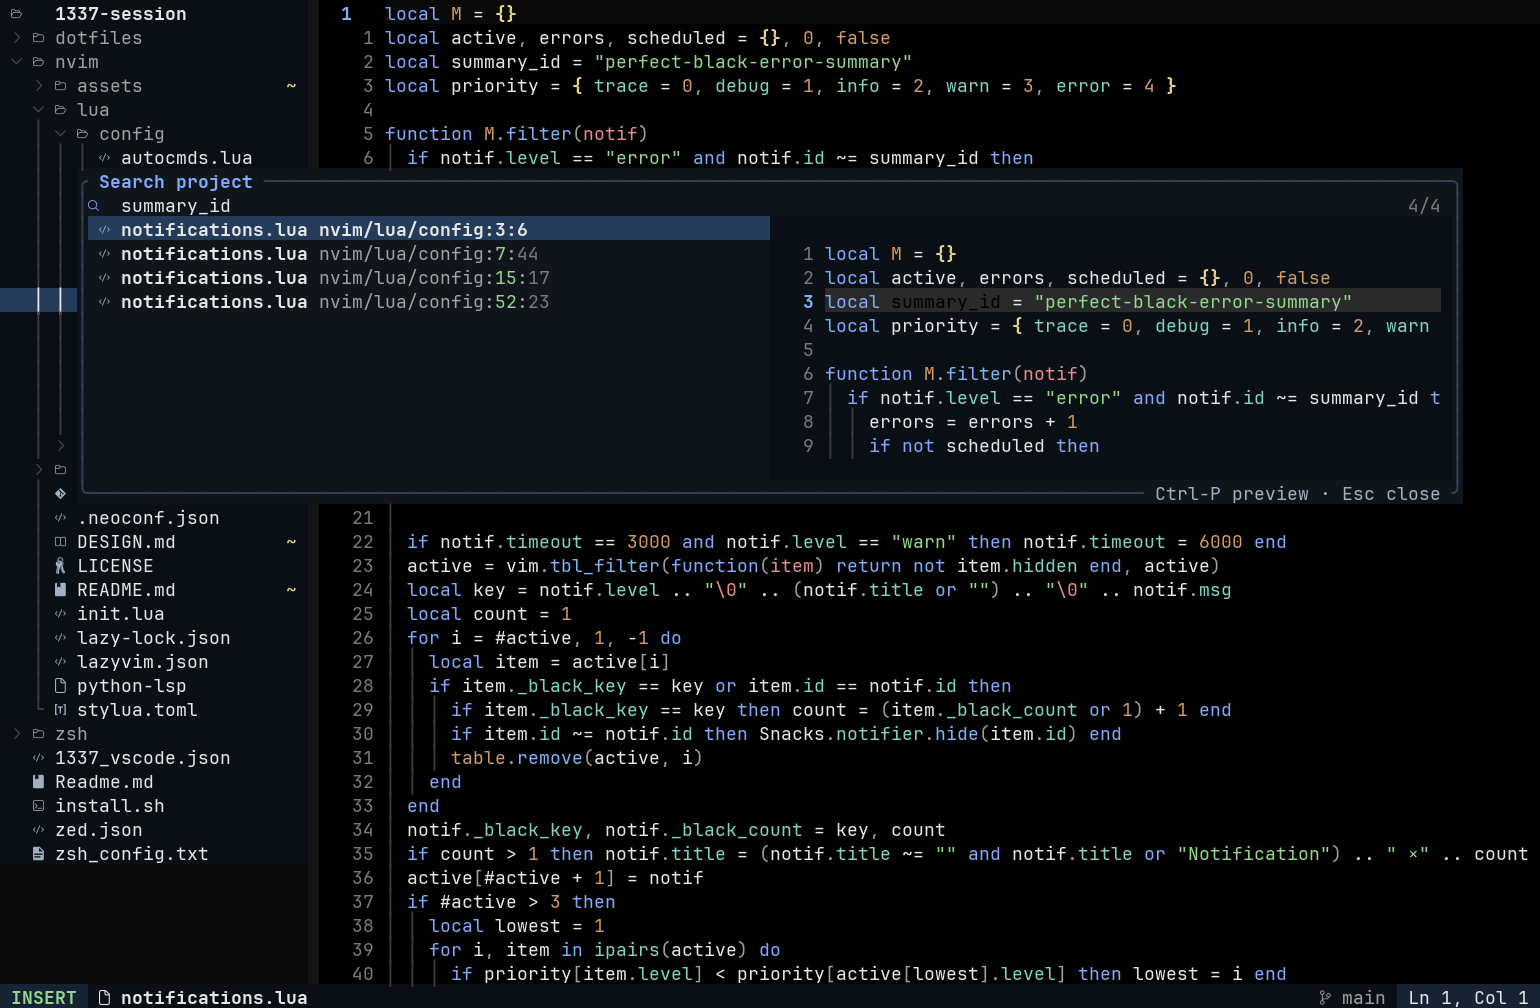
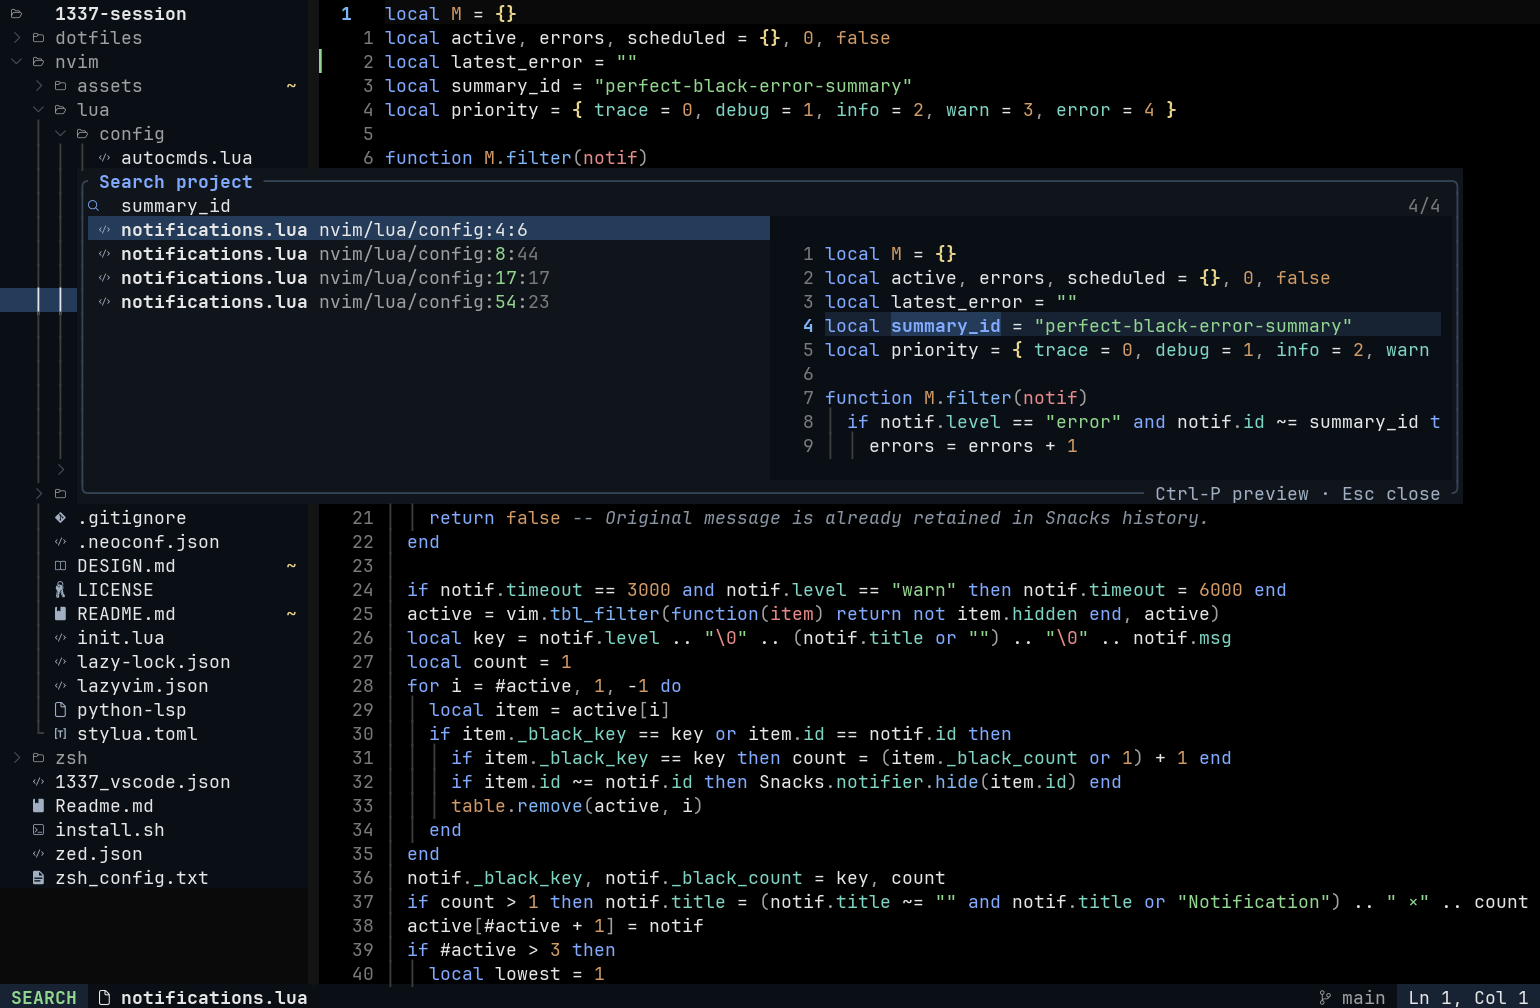
Improve Python responsiveness, documentation shortcuts and panel clarity

diff --git a/nvim/tests/ui_review.py b/nvim/tests/ui_review.py
@@ -75,11 +75,12 @@ def call(method,params):
 call('nvim_ui_attach',[100,30,{'rgb':True,'ext_linegrid':True}]);pump(1)
 call('nvim_command',['enew'])
 call('nvim_buf_set_lines',[0,0,-1,False,['test diagnostics','second line']])
-call('nvim_exec_lua',["require('config.diagnostic_signs').setup(); vim.diagnostic.config({signs=true,virtual_text=false,update_in_insert=true}); _G.review_a=vim.api.nvim_create_namespace('review_a'); _G.review_b=vim.api.nvim_create_namespace('review_b'); vim.diagnostic.set(review_a,0,{{lnum=0,col=0,message='warning',severity=2}}); vim.diagnostic.set(review_b,0,{{lnum=0,col=0,message='error',severity=1}})",[]]);pump(.2)
+call('nvim_exec_lua',["require('config.diagnostic_signs').setup(); vim.diagnostic.config({signs=true,virtual_text=false,update_in_insert=true}); _G.review_a=vim.api.nvim_create_namespace('review_a'); _G.review_b=vim.api.nvim_create_namespace('review_b'); vim.diagnostic.config({signs={priority=99,text={[1]='X'}}},review_b); vim.diagnostic.set(review_a,0,{{lnum=0,col=0,message='warning',severity=2}}); vim.diagnostic.set(review_b,0,{{lnum=0,col=0,message='error',severity=1}})",[]]);pump(.2)
 def signs():
  return call('nvim_exec_lua',["local ns=vim.api.nvim_get_namespaces().perfect_black_diagnostic_signs; local sign_ns=vim.diagnostic.get_namespace(ns).user_data.sign_ns; return sign_ns and vim.api.nvim_buf_get_extmarks(0,sign_ns,0,-1,{details=true}) or {}",[]])
 marks=signs();assert len(marks)==1,marks
 assert 'Error' in marks[0][3].get('sign_hl_group',''),marks
+assert marks[0][3]['priority'] < 99 and marks[0][3]['sign_text'].strip() != 'X',marks
 call('nvim_exec_lua',['vim.diagnostic.reset(review_b,0)',[]]);pump(.2)
 marks=signs();assert len(marks)==1 and 'Warn' in marks[0][3].get('sign_hl_group',''),marks
 call('nvim_exec_lua',['vim.diagnostic.reset(review_a,0)',[]]);pump(.2);assert signs()==[]
@@ -88,7 +89,7 @@ call('nvim_exec_lua',["require('config.notifications').dismiss(); for i=1,5 do S
 state=call('nvim_exec_lua',["local found={history=0,repeat_live=0,error_live=0}; for _,v in ipairs(Snacks.notifier.get_history()) do if v.msg:match('^review%-') then found.history=found.history+1; if v.win and v.win:win_valid() then if v.level=='warn' then found.repeat_live=found.repeat_live+1; found.title=v.title else found.error_live=found.error_live+1 end end end end; return found",[]])
 assert state=={'history':9,'repeat_live':1,'error_live':0,'title':'Notification ×5'},state
 screen='\n'.join(''.join(c for c,h in row) for row in grid)
-assert '4 errors' in screen,screen
+assert '4 errors' in screen and 'review-error-4' in screen,screen
 print('NOTIFICATIONS: 9 records, warning ×5, one error summary PASS',flush=True)
 call('nvim_exec_lua',["for i=1,6 do Snacks.notifier.notify('review-overflow-'..i,'info') end",[]]);pump(.3)
 live=call('nvim_exec_lua',["local n=0; for _,w in ipairs(vim.api.nvim_list_wins()) do if vim.bo[vim.api.nvim_win_get_buf(w)].filetype=='snacks_notif' then n=n+1 end end; return n",[]])
@@ -146,13 +147,21 @@ call('nvim_exec_lua',[r"""
 local cmp = require('cmp')
 cmp.register_source('ui_review', {
   complete = function(_, _, callback)
-    callback({ items = {{ label = 'summary', kind = 3, documentation = {
-      kind = 'markdown', value = '```python\ndef summary(values: list[int]) -> int\n```\n\n' .. string.rep('Documentation paragraph with a readable explanation.\n\n', 24),
-    } }}, isIncomplete = false })
+    callback({ items = {{ label = 'summary', kind = 3 }}, isIncomplete = false })
+  end,
+  resolve = function(_, item, callback)
+    vim.defer_fn(function()
+      item.documentation = {
+        kind = 'markdown', value = '```python\ndef summary(values: list[int]) -> int\n```\n\n' .. string.rep('Documentation paragraph with a readable explanation.\n\n', 24),
+      }
+      callback(item)
+    end, 1600)
   end,
 })
 """,[]])
 for width,height in [(80,24),(140,42)]:
+ call('nvim_input',['<Esc>']);pump(.5)
+ assert call('nvim_get_mode',[])['mode']=='n'
  call('nvim_ui_try_resize',[width,height]);pump(.2)
  call('nvim_command',['enew!'])
  call('nvim_command',['setfiletype python'])
@@ -160,7 +169,7 @@ for width,height in [(80,24),(140,42)]:
  call('nvim_input',['isum']);pump(.3)
  call('nvim_exec_lua',["require('cmp').complete()",[]]);pump(.4)
  call('nvim_exec_lua',["local c=require('cmp'); if not c.get_selected_entry() then c.select_next_item({behavior=c.SelectBehavior.Select}) end",[]]);pump(.2)
- call('nvim_input',['<C-b>']);pump(.5)
+ call('nvim_input',['<C-b>']);pump(1.8)
  assert call('nvim_exec_lua',["return require('cmp').visible_docs()",[]]),width
  docs=call('nvim_exec_lua',["for _,w in ipairs(vim.api.nvim_list_wins()) do if vim.bo[vim.api.nvim_win_get_buf(w)].filetype=='cmp_docs' then return {win=w,config=vim.api.nvim_win_get_config(w)} end end",[]])
  c=docs['config'];assert c['width']+2<=width and c['height']+2<=height,(width,c)
@@ -169,11 +178,11 @@ for width,height in [(80,24),(140,42)]:
  assert call('nvim_exec_lua',["return vim.fn.getwininfo(...)[1].topline",[docs['win']]])>1
  call('nvim_input',['<C-d>']);pump(.2)
  assert not call('nvim_exec_lua',["return require('cmp').visible_docs()",[]])
- call('nvim_input',['<Esc>']);pump(.2)
+ call('nvim_input',['<Esc>']);pump(.5)
  call('nvim_input',[':set number']);pump(.3)
  wins=call('nvim_exec_lua',["local r={} for _,w in ipairs(vim.api.nvim_list_wins()) do local c=vim.api.nvim_win_get_config(w); if c.relative~='' then r[#r+1]=c end end return r",[]])
  assert all(c['width']<=width and c['height']<=height for c in wins),wins
- call('nvim_input',['<Esc>']);pump(.2)
+ call('nvim_input',['<Esc>']);pump(.5)
  print('DOCS / COMMAND',width,height,'open, scroll, close and geometry PASS',flush=True)
 
 print('V_ERRORS',call('nvim_eval',['v:errors']),flush=True)

diff --git a/nvim/DESIGN.md b/nvim/DESIGN.md
@@ -14,7 +14,7 @@ removes repeated information from completion, search, and the statusline.
 | Editor canvas | `#000000` | Preserve the requested black background |
 | Body text | `#E6E6E6` | Readable without using white everywhere |
 | Secondary text | `#A0A0A0` | Paths and supporting details |
-| Comments | `#7A7A7A` | Quiet, italic annotations |
+| Comments | `#8994A3` | Readable italic annotations on black and panels |
 | Interaction accent | `#82AAFF` | Selection, prompts, headings, matches |
 | Shared panel fill | `#10151C` | Commands, search, docs, and notifications |
 | Inset fill | `#0A0F16` | Preview, sidebar, and statusline |
@@ -60,7 +60,8 @@ a language icon beside an already visible file name.
 
 ### Bottom status bar
 
-Mode and file are on the left. Diagnostics follow the filename. Git branch,
+Mode and file are on the left. The mode block reads SEARCH or FILES while
+those tools have focus, without losing the underlying editor filename. Diagnostics follow the filename. Git branch,
 and change counts appear on the right when space allows. The redundant
 filetype label is removed. The final
 block explicitly labels line and column, shortening to `line:column` in
@@ -79,8 +80,10 @@ Documentation uses a distinct opaque panel with a thin cell border, a
 DOCUMENTATION title, and keyboard hints when its width permits. Ctrl-D toggles
 it. Ctrl-B/F open it from a visible completion menu or scroll it when already
 open. Outside completion, these mappings fall back to their normal behavior.
-The title helper uses public Neovim window APIs and leaves very narrow panels
-unlabelled to avoid crowding. Documentation still opens only on request.
+The title helper decorates the window immediately after the pinned completion
+plugin renders resolved documentation. It leaves very narrow panels unlabelled
+to avoid crowding. This small adapter uses the plugin’s internal docs-open
+method and must be checked when updating that pinned dependency. Documentation still opens only on request.
 
 ### Command palette and hover
 
@@ -114,8 +117,11 @@ editing begins.
 ### Feedback
 
 A diagnostic handler shows the worst diagnostic on each line across namespaces.
+Source severity filters are honored, while the combined display uses one
+explicit icon/priority policy instead of inheriting a random namespace’s options.
 The sign column can expand for a simultaneous Git marker. Repeated active
-notifications batch; errors share a persistent summary. Original notifications
+notifications batch; errors share a persistent summary with a short latest-error
+message. Original notifications
 remain in session history. At most three live toasts are tracked. History does
 not survive restarting Neovim.
 
@@ -135,3 +141,29 @@ claim to show a live ty response. No generated UI mockups are used.
 These checks do not measure NFS startup, physical display response, sustained
 real-project LSP performance, or comfort on the user's cluster terminal. No
 numerical rating substitutes for those checks or the user's visual preference.
+
+
+## Responsiveness follow-up
+
+- Standalone Python user-site discovery is asynchronous, shares in-flight requests,
+  caches results for the session, and times out after 1.5 seconds. Only the affected
+  language-server startup waits for discovery; Neovim's UI does not. Lookup failure
+  falls back to ty's normal discovery. Project roots and active environments remain
+  isolated from the user-site override.
+- Mapping timeout is 350 ms and idle update time is 250 ms. These are interaction
+  settings, not claimed improvements to raw input latency.
+- Completion shortcut overrides use canonical key names, preventing collisions
+  with the inherited preset (such as `<C-b>` versus `<C-B>`).
+- Documentation labels follow actual rendering rather than a fixed 60 ms
+  timer. Regression tests deliberately delay completion resolution by 1.6 seconds.
+- Completion truncation uses display-cell width, including non-ASCII labels.
+- Search preview matches use an explicit readable accent on selection fill,
+  avoiding the inherited dark foreground on a dark preview row.
+- Shared panel highlights are defined once in `config/surfaces.lua`; superseded
+  declarations were removed from the theme.
+- Notification history remains session-only and unbounded. Real cluster/NFS and
+  sustained project LSP performance still need measurements on that workstation.
+
+`nvim --headless -u NONE -l nvim/tests/python_environment.lua` tests asynchronous
+lookup, coalescing, caching, failure fallback, and virtual-environment/project
+isolation with a controlled subprocess substitute.

diff --git a/nvim/README.md b/nvim/README.md
@@ -76,4 +76,14 @@ NVIM_BIN=/path/to/nvim python3 nvim/tests/ui_review.py
 
 Use the same `XDG_DATA_HOME` as your plugin installation if it is nonstandard.
 The suite checks diagnostic collisions, notification overflow, adaptive search,
-large buffers, responsive navigation, and completion-documentation mappings.
+large buffers, responsive navigation, and documentation mappings with deliberately
+slow completion responses.
+
+Python environment-discovery checks (run from the repository root):
+
+```sh
+nvim --headless -u NONE -l nvim/tests/python_environment.lua
+```
+
+Standalone Python user-package discovery is asynchronous and cached. Project
+roots and active environments keep their normal discovery behavior.
